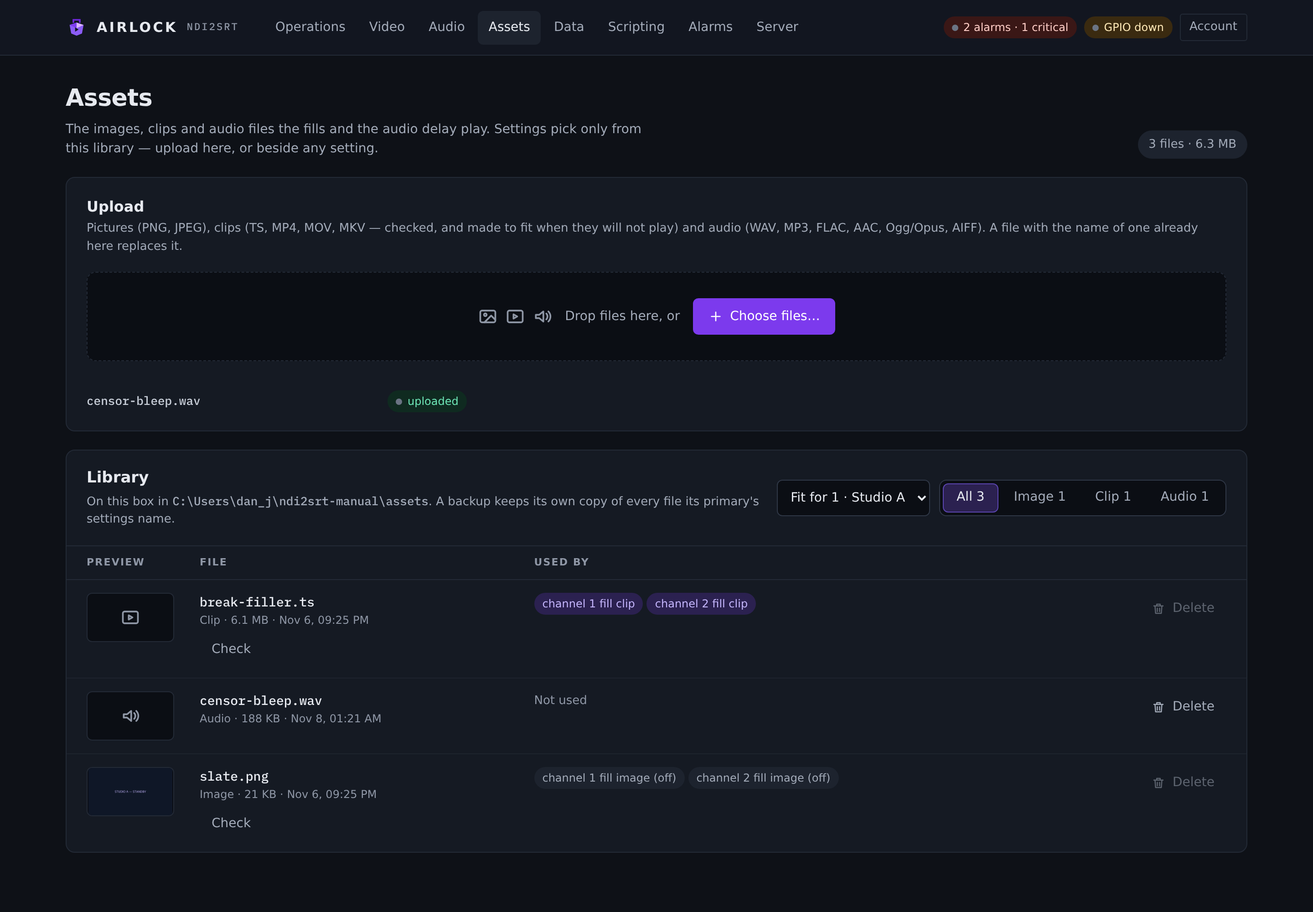
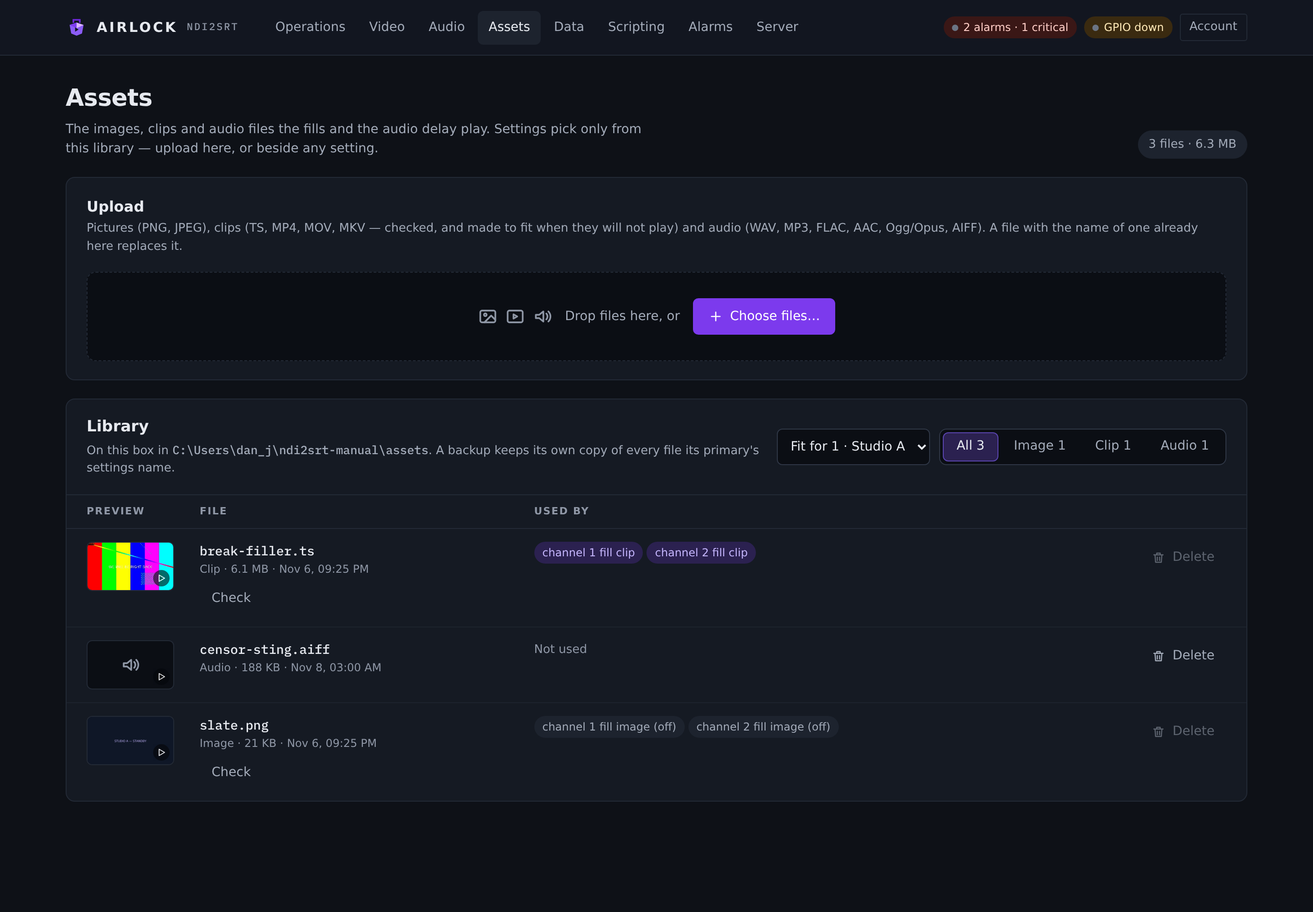
Update the Airlock manual
Generated from the product repository's manual/ tree.

diff --git a/docs/audio/delay.md b/docs/audio/delay.md
@@ -147,10 +147,26 @@ catch something with **Post-cough** or **Post-censor** before it airs. Leave
   output airs the **Fill**:
     - **Squeeze asset to span** — the fill asset, time-stretched to span exactly
       the build window and looped if it is short;
-    - **Silence**.
+    - **Silence**;
+    - **An input (external insert)** — a live input, picked under **Insert
+      input**: a music source, a jingle player, another studio. The delayed
+      programme is held back and the input goes to air for the build, then the
+      output crossfades to the delayed programme. This is
+      ProfanityDelayService's external insert. The input can be any audio input
+      or processed stage except the delay's own source, which would put the
+      presenter on air undelayed. A standby needs the same input name mapped to a
+      device.
 
   When the depth is reached, the output crossfades to the now-delayed live
   programme.
+
+  An insert build only happens when the delay builds **from live** — from
+  nothing, or from 10 % of the depth or less: at start-up, and when **Build** is
+  pressed with the output live. A **rebuild after a dump or a cough expands**,
+  even in insert mode, so the programme is never taken off air for fill or
+  silence in the middle of a show. This is what ProfanityDelayService does.
+  The **At these settings** panel on the Build tab shows both times: the depth in
+  real time for a build from live, and the expand time for a rebuild.
 
 The fill asset is an audio file uploaded to the box's [asset library](../assets/library.md)
 — pick it from the list beside **Fill asset**, or **Upload…** one; there is no
@@ -165,26 +181,50 @@ seconds, and only re-decoded when the chosen asset changes.
 
 - **Compress (drain)** — the programme is played slightly fast until the gap
   closes, then the delay is live. Nothing is lost.
-- **Rollout (to live)** — an equal-power crossfade from the delayed programme to
-  live over **Rollout xfade** milliseconds, then a jump to live. Faster, and the
-  overlap is audible as a brief double, so keep the window short (250 ms is the
-  default).
+- **Rollout (crossfade to live)** — an equal-power crossfade from the delayed
+  programme to live over **Rollout crossfade** milliseconds, then a jump to live.
+  What was left in the delay is not aired. Faster, and the overlap is audible as
+  a brief double, so keep the window short (250 ms is the default).
+- **Play out (tail airs, live joins)** — ProfanityDelayService's rollout. The
+  delayed programme still in the delay when **Exit** is pressed — the *tail* —
+  plays out on air at normal speed, so nothing is cut. For its last **Live joins
+  for** milliseconds the live programme is summed in at full level, so the
+  presenter talks over the end of it; then the output is live. An exit from full
+  depth takes the depth's own length.
 
-**Bypass** is neither: it drops straight to live with no transition at all.
+  **Rollout return** is an output carrying the tail **alone** while it plays out:
+  no live, and no censor or cough — the raw tail, as ProfanityDelayService's
+  rollout mix-minus output did. Feed it to the presenter's monitor and they hear
+  the end of the delayed programme without hearing themselves come back. It is
+  silent at every other time. It must be an output of its own, not the delay's
+  air or confidence output.
+
+  During a play-out: **Dump** skips that much of the tail (**Dump all** ends it),
+  and the exit carries on. **Build** before live has joined cancels the exit and
+  the delay is back at full depth with no seam; **Build** once live is on air
+  lets the tail finish and then builds from live. Releasing a cough does not
+  cancel it. The **rollout overlap** tally fires when live joins.
+
+**Bypass** is none of these: it drops straight to live with no transition at all.
 
 ### After a dump
 
-**Auto-rebuild** and **After a dump** together decide what happens once a dump
-has fired:
+**After a dump** decides what happens once a dump has fired:
 
 | **After a dump** | Rebuilds after **Dump** | Rebuilds after **Dump all** |
 |---|---|---|
-| **Rebuild** | yes | yes |
-| **Rebuild (dump only)** | yes | no |
-| **Rebuild (dump-all only)** | no | yes |
-| **Stay at depth** | no | no |
+| **Rebuild after any dump** | yes | yes |
+| **Rebuild after a dump only** | yes | no |
+| **Rebuild after a dump-all only** | no | yes |
+| **Don't rebuild (stay at what is left)** | no | no |
 
-Setting **Auto-rebuild** to **No** overrides all four — nothing rebuilds.
+A rebuild expands back to full depth, whatever the build mode (see
+[Build mode](#build-mode)).
+
+!!! note "Auto-rebuild is gone"
+    Earlier versions also had **Auto-rebuild**, which only duplicated this
+    setting. A delay saved with it **No** now loads as **Don't rebuild**, so it
+    behaves exactly as before.
 
 Where a dump does not rebuild, the delay stays at whatever depth is left. That
 can be deliberate (a short programme that is about to end) but it leaves the
@@ -343,13 +383,14 @@ REST, TCP and GPIO.
 | Build rate | **Build rate** | `audio_delays[].build_rate_pct` | `4` | How fast the depth grows, as a percent of real time, 1–10. |
 | Exit rate | **Exit rate** | `audio_delays[].exit_rate_pct` | `4` | How fast it drains on a compress exit, 1–10. |
 | Start state | **On start** | `audio_delays[].start_mode` | `build` | `bypass` (live), `build` (grow to depth), `full` (at depth immediately). |
-| Auto-rebuild | **Auto-rebuild** | `audio_delays[].auto_rebuild` | `true` | Build again after a dump. |
 | Rebuild policy | **After a dump** | `audio_delays[].build_after_dump` | `both` | `both`, `dump`, `dumpall`, `disabled`. |
-| Exit mode | **Exit** | `audio_delays[].exit_mode` | `compress` | `compress` (drain) or `rollout` (crossfade to live). |
-| Rollout window | **Rollout xfade** | `audio_delays[].rollout_overlap_ms` | `250` | Equal-power crossfade length for a rollout exit, 0–10000 ms. |
+| Exit mode | **Exit mode** | `audio_delays[].exit_mode` | `compress` | `compress` (drain), `rollout` (crossfade to live) or `playout` (the tail airs, live joins). |
+| Rollout window | **Rollout crossfade** / **Live joins for** | `audio_delays[].rollout_overlap_ms` | `250` | The crossfade length for a rollout exit; for a play-out, how long live is on air over the end of the tail. 0–10000 ms. |
+| Rollout return | **Rollout return** | `audio_delays[].rollout_return_output` | `""` | A play-out exit's return output: the tail alone, no live, no censor, silent outside the exit. Not the air or confidence output. |
 | Build mode | **Build mode** | `audio_delays[].build_mode` | `expand` | `expand` (stretch the live programme) or `insert` (air a fill while the ring fills). |
 | Fill strategy | **Fill** | `audio_delays[].fill_strategy` | `squeeze` | `squeeze` (stretch the asset to span the build) or `silent`. |
 | Fill asset | **Fill asset** | `audio_delays[].fill_asset` | `""` | An uploaded audio file from the [asset library](../assets/library.md), aired during an insert build. |
+| Insert input | **Insert input** | `audio_delays[].fill_input` | `""` | With **Fill** set to **An input** (`fill_strategy: "input"`): the audio input or processed stage aired, live, during an insert build. Not the delay's own source. |
 | Fill schedule | **Fill schedule** | `audio_delays[].fill_schedule[]` | `[]` | Dayparted fill assets: `{ days, start, end, asset }`. |
 | Join crossfade | **Join xfade** | `audio_delays[].crossfade_ms` | `20` | Crossfade over a dump join. 10–30 ms is the useful range; anything above 100 ms is clamped. |
 | Channels | **Channels** | `audio_delays[].channels` | `2` | `1` or `2`. Set it to match the source: the ring carries whatever the source delivers. |
@@ -382,7 +423,6 @@ A schedule row is `{ "days": "mon,tue", "start": "06:00", "end": "09:00",
       "build_rate_pct": 4.0,
       "exit_rate_pct": 4.0,
       "start_mode": "build",
-      "auto_rebuild": true,
       "build_after_dump": "both",
       "exit_mode": "compress",
       "build_mode": "expand",
@@ -444,8 +484,8 @@ specifically want the silence.
 An expand build grows at *build rate* percent of real time: 10 s of depth at 4 %
 is about four minutes. If you need the depth sooner, raise the rate (to a
 maximum of 10 %, about 100 seconds for 10 s of depth) or switch **Build mode**
-to **Insert (air a fill)**, which reaches depth in exactly the depth's own
-length.
+to **Insert (air a fill)**, which reaches depth from live in exactly the
+depth's own length. A rebuild after a dump or a cough always expands.
 
 **An insert build is silent.**
 Either **Fill** is **Silence**, or the fill asset could not be decoded. Check

diff --git a/docs/audio/encoders.md b/docs/audio/encoders.md
@@ -167,23 +167,61 @@ A Stereo Tool processor belongs to a *source stage*, not to the encoder: build t
 
 ## Reading the card
 
-The pill beside each card name is the block's state:
+The pill beside each card name says what the **link** is doing, in the
+transport's own terms. A second pill names the codec.
 
 | Pill | Meaning |
 | --- | --- |
-| **on air · `<codec>`** | Running, source arriving, link up. |
-| **on air · `<codec>` · connecting** | Source is arriving and audio is being coded, but the transport has not connected. Check host, port and credentials. |
+| **SRT · connected** | The far end is connected. The strip shows its address. |
+| **SRT · listening** | A listener waiting for its caller. |
+| **SRT · connecting** / **retrying** | A caller trying to reach its listener; **retrying** carries the last error. |
+| **RTMP · publishing** / **Icecast · streaming** | The server accepted the stream. |
+| **RTMP · refused** / **Icecast · refused** | The server answered and said no. Its words are under the strip — for example `NetStream.Publish.BadName`, which means another encoder already holds that stream key. |
+| **RTP · sending** | Packets are leaving. RTP has no far end to connect to, so this is all this end can know. |
+| **SIP · in call** | A call is up. |
+| **HLS · uploading** | Segments are landing at the destination (disk, FTP, SFTP or S3). |
+| **HLS · upload failing** | The destination is refusing writes; its reason is under the strip. Segments are still cut and served by this box. |
+| **HLS · waiting for the first segment** / **serving** | Nothing has landed yet / no destination is set: the box serves the stream itself. |
 | **no source** | Running, but nothing is coming from the chosen source. |
 | **stopped** | Not running — disabled, or it refused to start. |
 | **held · standby** | Not running because this box is a locked backup. Hover for the reason. |
-| **refused** | The destination answered and said no. Hover for its words — for example an RTMP server's `NetStream.Publish.BadName`, which means another encoder already holds that stream key. |
 | **unlicensed** | Running without a licence seat, so the output carries the unlicensed tone: a one-second burst every thirty seconds, mixed in before the codec so every transport carries it. |
+
+Green is working, red is refused or failing, amber is retrying, grey is waiting.
+
+### The statistics strip
+
+Under the header, a running encoder shows its link's evidence:
+
+* **to** — who it is talking to: the SRT peer, the server, the HLS destination.
+  An RTMP stream key is never shown.
+* **for** — how long the link has been in its state.
+* **rate** — what it is actually sending, measured over the last two seconds.
+* The transport's own counters:
+
+| Transport | Counters |
+| --- | --- |
+| SRT | sent, packets, lost, retransmitted, dropped, buffered, RTT (when the library reports it), reconnects |
+| RTMP | sent, frames, queued, dropped, reconnects |
+| Icecast | sent, frames, dropped, reconnects |
+| RTP | packets, sent, send errors |
+| SIP | packets, sent, calls |
+| HLS | segments made, uploaded, failed, data uploaded, last upload (how long ago) and how long it took |
+
+**Lost** and **retransmitted** climbing on SRT mean the path is dropping
+packets; raise the latency. **Queued** and **dropped** on RTMP mean the server
+is not taking frames as fast as they are made. On HLS, **uploaded** falling
+behind **segments made**, or **last upload** growing past a couple of segment
+lengths, means the destination is slow or failing before it says so.
 
 On a SIP encoder the **call card** under the settings shows the call's own state — see [the call card](rtp-sip.md#the-call-card).
 
 The meter beside the pill is the **program level into the encoder**. An encoder has no output level to show — its output is a coded stream — so this is the one meter on the card.
 
-The status API carries more than the card does. `GET /api/audio-encoders` returns one row per block with `source`, `target`, `transport`, `codec`, `channels`, `rate`, `frames`, `bytes`, `connected`, `error` (the destination's reason when it is refusing), `held`, `watermarked`, the meter, the block's recent log lines, an `rtp` object for an RTP or SIP encoder, a `sip` object for a SIP encoder, and an `srt` object with the link's own view: `connected`, `peer`, packets sent, lost, retransmitted and dropped, `reconnects` and `last_error`.
+The status API carries the same. Each row of `GET /api/audio-encoders` has a
+`link` object in one shape for every transport — `transport`, `state` (the
+pill's word), `up`, `detail` (who), `for_s`, `kbps`, `counters` (the strip's
+numbers, named as above in snake case) and `error` — beside the older fields: `source`, `target`, `transport`, `codec`, `channels`, `rate`, `frames`, `bytes` (on HLS, bytes that landed), `connected`, `error` (the destination's reason when it is refusing), `held`, `watermarked`, the meter, the block's recent log lines, an `rtp` object for an RTP or SIP encoder, a `sip` object for a SIP encoder, and an `srt` object with the link's own view: `connected`, `peer`, packets sent, lost, retransmitted and dropped, `reconnects` and `last_error`.
 
 !!! note "`connected` is the destination's word"
     On an SRT encoder, `connected` is the link's state, not the queue's: a listener that could never bind its port, or a caller nobody answers, reads `false` with the reason in `srt.last_error`. On an HLS encoder it is the origin's state, so a dead FTP or S3 target reads `false` even while segments are being cut and served locally. On RTMP and Icecast it is the server's: a refused publish reads `false` with the server's reason in `error`. On RTP there is no far end to be connected to, so it means the socket is taking the packets; on SIP it means a call is up.

diff --git a/docs/assets/library.md b/docs/assets/library.md
@@ -47,7 +47,7 @@ Each row is one file:
 
 | Column | What it shows |
 |---|---|
-| **Preview** | A thumbnail of an image; a play button for an audio file (one plays at a time, press again to stop); an icon for a clip. |
+| **Preview** | A thumbnail: the picture itself, a clip's first picture, or an audio icon. Click it to open the viewer. |
 | **File** | The name, kind, size and when it was uploaded. An image or clip has **Check**: the engine's own verdict on the file, with **Make it fit** when a clip will not play and the box has `ffmpeg`. |
 | **Used by** | Every setting that names the file. A setting that is not in force — a daypart that is switched off, a slate while the picture is a clip, a censor file while the censor plays a tone — is marked **(off)**. |
 | **Delete** | Press **Delete**, then **Delete for good** within four seconds. |
@@ -63,6 +63,26 @@ because switching the setting back on would air a missing file. Its **Delete**
 is greyed out. Point those settings at another file first, save, and then
 delete it. The server refuses the same thing with `409` and the list of
 settings.
+
+## The viewer
+
+Click a file's thumbnail to open it in the viewer. **←** and **→** step through
+the library as it is filtered, **Space** plays and pauses, and **Esc** or a click
+outside closes it.
+
+![The viewer playing a clip, decoded by the box](../img/assets/viewer-clip.png){ .shot }
+
+| File | What the viewer does |
+|---|---|
+| Picture | Shows it fitted to the window, with its size in pixels. **Actual size**, or a click on the picture, shows it pixel for pixel; scroll to move around it. |
+| Clip (`.ts`, `.m2ts`, `.mts`) | Plays it with its sound, with **Play**/**Pause**, a position bar and the time. The box decodes it with the fill's own decoder, so it shows what will air: pictures the decoder refuses are missing, and a clip whose sound the engine cannot decode is marked **silent on air**. No ffmpeg is needed. The pictures are 960 × 540 and are prepared in the background; playback starts at once, and **preparing pictures** shows how far the box has got. The viewer covers the first two minutes of a longer clip. |
+| Clip (`.mp4`, `.mov`, `.mkv`) | Plays it in the browser's own player, when the browser can. A fill does not play these files as they are: **Check** the clip and **Make it fit**. |
+| Audio | Plays it with the browser's player: play, pause, position and volume. AIFF, which Chrome and Firefox cannot play, is converted to WAV on the box for the viewer. |
+
+The pictures follow the sound's clock: the page asks the box for the picture
+due at each moment. On a slow link it shows fewer pictures, never late ones, so
+the picture and the sound stay together. A seek, or a pause and play, starts both
+again from the new point.
 
 ## The rule a save follows
 
@@ -104,7 +124,12 @@ library follows the primary's.
 | `GET` | `/api/assets` | — | the library: `dir`, and per file `name`, `path`, `kind`, `bytes`, `modified` and `used_by` (`[{setting, active}]`) |
 | `POST` | `/api/assets` | `?name=<file>`, body = the file | upload into the library; a clip is probed and the verdict returned |
 | `POST` | `/api/assets/import` | `{path}` | copy a file on the box into the library |
-| `GET` | `/api/assets/file/{name}` | — | the file itself (previews) |
+| `GET` | `/api/assets/file/{name}` | — | the file itself; honours `Range`, so a player can seek |
+| `GET` | `/api/assets/preview/{name}` | — | what the viewer can show: `engine` (a transport-stream clip the box decodes), and for one of those `duration_s`, `shown_s`, `fps`, `audio`, `audio_note`, `decoded_s`, `done`, `warning`, `error`. Opening it starts the decode |
+| `GET` | `/api/assets/preview/{name}/poster.jpg` | — | a clip's first picture, 320 × 180 |
+| `GET` | `/api/assets/preview/{name}/video.mjpg` | `?from=<s>` | the clip's pictures from that point, each sent on its time (`multipart/x-mixed-replace`) |
+| `GET` | `/api/assets/preview/{name}/frame.jpg` | `?t=<s>` | the picture at that point |
+| `GET` | `/api/assets/preview/{name}/audio.wav` | — | the clip's sound as WAV, aligned to its first picture; for an AIFF file, the file as WAV. Honours `Range` |
 | `DELETE` | `/api/assets/item/{name}` | — | delete it; `409 {error, used_by}` while a setting names it |
 
 The per-channel routes under `/api/channels/{n}/fill/assets` (upload, `probe`,

diff --git a/docs/audio/decoders.md b/docs/audio/decoders.md
@@ -55,14 +55,25 @@ Decoded audio is conformed to the destination on the way out: the named output r
 
 Each card shows two states side by side.
 
-**In** — the incoming coded stream:
+**In** — the incoming link, in the transport's own terms, and the codec read
+from the stream:
 
 | Pill | Meaning |
 | --- | --- |
-| **`<codec>` · `<n>` kbps** | Receiving. The codec is the one read from the stream; the rate is what the SRT link is actually pulling. |
-| **`<codec>` · `<n>` kbps · `<n>` gaps** | Receiving, but groups have gone missing. See below. |
-| **no stream** | Running, but nothing has arrived. |
+| **SRT · connected** | The sender is connected. |
+| **SRT · listening** | A listener waiting for its sender. |
+| **SRT · connecting** / **retrying** | A caller trying to reach the sender's listener. |
+| **RTP · receiving** | Packets are arriving. |
+| **RTP · waiting for packets** / **stalled** | Nothing has arrived yet / packets stopped arriving. |
+| **SIP · in call** | A call is up. |
 | **stopped** | Not running — disabled, or it refused to start. |
+
+Under the header, a running decoder shows its **statistics strip**: **from**
+(the sender), **for** (time in this state), **rate** (measured), and the
+transport's counters — on SRT received, packets, lost, retransmitted, dropped,
+RTT and reconnects; on RTP packets, received, lost, late, reordered,
+duplicates, jitter and SSRC changes — plus the decoder's own frames, **gaps**
+and **concealed** frames.
 
 **Out** — a level meter on the decoded audio. The *in* side has no meter: a coded stream has no level until it is decoded.
 
@@ -76,7 +87,9 @@ A handful of gaps after a reconnect is normal. A gap count that climbs steadily 
 
 ### Status API
 
-`GET /api/audio-decoders` returns one row per block: `name`, `source`, `target`, `transport`, `running`, `connected`, `codec`, `channels`, `rate`, `frames`, `gaps`, `concealed`, `watermarked`, the meter, an `rtp` object on RTP and SIP, a `sip` object on SIP, the block's recent log lines, and an `srt` object with the link's own view — `connected`, `peer`, `recv_mbps`, packets received, lost, dropped and retransmitted, `reconnects` and `last_error`.
+`GET /api/audio-decoders` returns one row per block, each with a `link` object
+in the same shape as an encoder's (`transport`, `state`, `up`, `detail`,
+`for_s`, `kbps`, `counters`, `error`), and: `name`, `source`, `target`, `transport`, `running`, `connected`, `codec`, `channels`, `rate`, `frames`, `gaps`, `concealed`, `watermarked`, the meter, an `rtp` object on RTP and SIP, a `sip` object on SIP, the block's recent log lines, and an `srt` object with the link's own view — `connected`, `peer`, `recv_mbps`, packets received, lost, dropped and retransmitted, `reconnects` and `last_error`.
 
 `connected` on the row is the link's state, not the decoder's optimism: a listener that could not bind its port, or a caller nobody answers, reads `false` with the reason in `srt.last_error`.
 

diff --git a/docs/audio/sources.md b/docs/audio/sources.md
@@ -91,8 +91,24 @@ The file names it recognises are the ones Thimeo ships:
 | macOS | `libStereoTool_64.dylib` |
 
 If no library is found, the stage still runs and passes audio through untouched.
-The card shows a warning banner saying the library did not load, and the log says
-so once. Nothing drops off air because Stereo Tool is missing.
+The card shows a warning banner naming the file this box needs and the folder to
+put it in — for example *copy `libStereoTool_64.dll` into `C:\Program
+Files\ndi2srt` (beside ndi2srt)* — and the log says the same once. Nothing drops
+off air because Stereo Tool is missing.
+
+**No restart is needed.** A running stage looks for the library again every few
+seconds and changes over to Stereo Tool when it appears. Loading takes from a second to several seconds
+(about 10 s end to end on a Windows desktop) — the card says **Stereo Tool is loading** meanwhile — and happens beside
+the audio, which keeps passing through until the engine is ready. An audio
+encoder with Stereo Tool picks the library up the next time it is started
+(disable and enable it).
+
+The library's code is loaded **once per process**; every stage and every
+encoder still makes **its own Stereo Tool instance** from it, with its own
+input, output, preset, licence, bypass and web port. Almost all of the start-up time
+is that instance — about 0.8 s measured on a Mac mini and about 6 s on a
+Windows desktop, against 0.07–0.15 s for the library itself — so it is paid for
+each stage and encoder.
 
 ### Licence and presets
 
@@ -252,12 +268,12 @@ is why input names must match across a redundant pair.
 
 ## Troubleshooting
 
-**The card says the library did not load.**
-Airlock could not find the Stereo Tool shared library. Check the file name
-against the table above, check it is beside the executable (or that
-`NDI2SRT_STEREOTOOL` points at the file, not the folder), and check the
-architecture matches the Airlock build. Audio is passing through untouched in
-the meantime.
+**The card says Stereo Tool's library is not on this box.**
+Airlock could not find the Stereo Tool shared library. The banner names the file
+and the folder for this box: copy that file there (or point
+`NDI2SRT_STEREOTOOL` at the file, not the folder) and it is picked up within a
+few seconds. If it still says so, check the architecture matches the Airlock
+build. Audio is passing through untouched in the meantime.
 
 **`unlicensed · watermarked`.**
 No key, or a key the processor rejected. The audio on air carries Thimeo's

diff --git a/docs/reference/config.md b/docs/reference/config.md
@@ -927,13 +927,14 @@ source.
 | `audio_delays[].build_rate_pct` | float | `4.0` | How fast the delay grows, as a percent of real time (1–10). Time-stretched with pitch kept |
 | `audio_delays[].exit_rate_pct` | float | `4.0` | How fast it drains on exit (1–10) |
 | `audio_delays[].start_mode` | string | `"build"` | `bypass`, `build` or `full` — the state on start |
-| `audio_delays[].auto_rebuild` | bool | `true` | After a dump, build again toward the previous depth |
 | `audio_delays[].crossfade_ms` | float | `20.0` | Crossfade at a dump or jump join (10–30) |
-| `audio_delays[].exit_mode` | string | `"compress"` | `compress` (drain by speeding up) or `rollout` (crossfade to live) |
+| `audio_delays[].exit_mode` | string | `"compress"` | `compress` (drain by speeding up), `rollout` (crossfade to live) or `playout` (the tail airs at normal speed, live joins for `rollout_overlap_ms`) |
 | `audio_delays[].rollout_overlap_ms` | float | `250.0` | Equal-power crossfade window for a rollout exit |
-| `audio_delays[].build_after_dump` | string | `"both"` | Rebuild after a dump: `disabled`, `dump`, `dumpall` or `both` |
+| `audio_delays[].rollout_return_output` | string | `""` | With `exit_mode: "playout"`: a named output carrying the tail alone (no live, no censor) while it plays out, silent otherwise |
+| `audio_delays[].build_after_dump` | string | `"both"` | Rebuild after a dump: `both` (any dump), `dump`, `dumpall` or `disabled` (stay at what is left). A document carrying the old `auto_rebuild: false` loads as `disabled` |
 | `audio_delays[].build_mode` | string | `"expand"` | `expand` stretches the live programme slower; `insert` airs a fill asset while the ring fills, then crossfades to live |
-| `audio_delays[].fill_strategy` | string | `"squeeze"` | For an insert build: `squeeze` (play the asset stretched to span the build) or `silent` |
+| `audio_delays[].fill_strategy` | string | `"squeeze"` | For an insert build: `squeeze` (play the asset stretched to span the build), `silent`, or `input` (air `fill_input` live) |
+| `audio_delays[].fill_input` | string | `""` | With `fill_strategy: "input"`: the audio input or processed stage aired during an insert build — not the delay's own source |
 | `audio_delays[].fill_asset` | string | `""` | The fill asset aired during an insert build. Any file ffmpeg can decode |
 | `audio_delays[].dump_strategy` | string | `"dump"` | `dump` (discard) or `censor` (dump-fill) |
 | `audio_delays[].censor_seconds` | float | `7.0` | Default one-shot censor length |

diff --git a/docs/control/rest.md b/docs/control/rest.md
@@ -377,8 +377,8 @@ See [Panel page](panel.md) and [Axia GPIO](gpio.md).
 
 | Method | Path | Does |
 |---|---|---|
-| `GET` | `/api/audio-encoders` | a row per audio encoder: codec, rate, channels, frames, bytes, meter, and the `srt` link state |
-| `GET` | `/api/audio-decoders` | the same for decoders |
+| `GET` | `/api/audio-encoders` | a row per audio encoder: codec, rate, channels, frames, bytes, meter, the `srt`/`rtp`/`sip` detail, and `link` — `{transport, state, up, detail, for_s, kbps, counters, error}` in one shape for every transport (HLS: upload counters) |
+| `GET` | `/api/audio-decoders` | the same for decoders, `link` describing the receive side |
 | `GET` | `/api/audio-sources` | processing stages: Stereo Tool state, meters, consumers, and any profanity delay on the stage |
 | `GET` | `/api/audio-delays` | a row per audio delay: state, depth, target, max, safe/idle, dumps, cough/censor flags and the tally lamps |
 | `POST` | `/api/audio-delays/{name}/{action}` | drive one audio delay |
@@ -409,7 +409,9 @@ curl -s -X POST "http://localhost:8090/api/audio-delays/studio-dump/cough?down=t
 | `GET` | `/api/assets` | — | `{dir, assets:[{name, path, kind, bytes, modified, used_by:[{setting, active}]}]}` |
 | `POST` | `/api/assets` | `?name=<file>`, body = the file (`application/octet-stream`) | upload into the library; returns `{ok, name, path, kind, bytes, probe}` (`probe` for an image or clip) |
 | `POST` | `/api/assets/import` | `{path}` | copy a file on the box into the library |
-| `GET` | `/api/assets/file/{name}` | — | the file, with its content type |
+| `GET` | `/api/assets/file/{name}` | — | the file, with its content type; honours `Range` |
+| `GET` | `/api/assets/preview/{name}` | — | what a preview can show; for a `.ts` clip starts the box's decode and reports `duration_s`, `shown_s`, `fps`, `audio`, `decoded_s`, `done` |
+| `GET` | `/api/assets/preview/{name}/{part}` | `poster.jpg`, `frame.jpg?t=`, `video.mjpg?from=`, `audio.wav` | a clip's poster, one picture, its pictures as a timed JPEG stream, its sound as WAV (or an AIFF as WAV) |
 | `DELETE` | `/api/assets/item/{name}` | — | delete it; `409 {error, used_by}` while a setting names it |
 
 See [The asset library](../assets/library.md).
